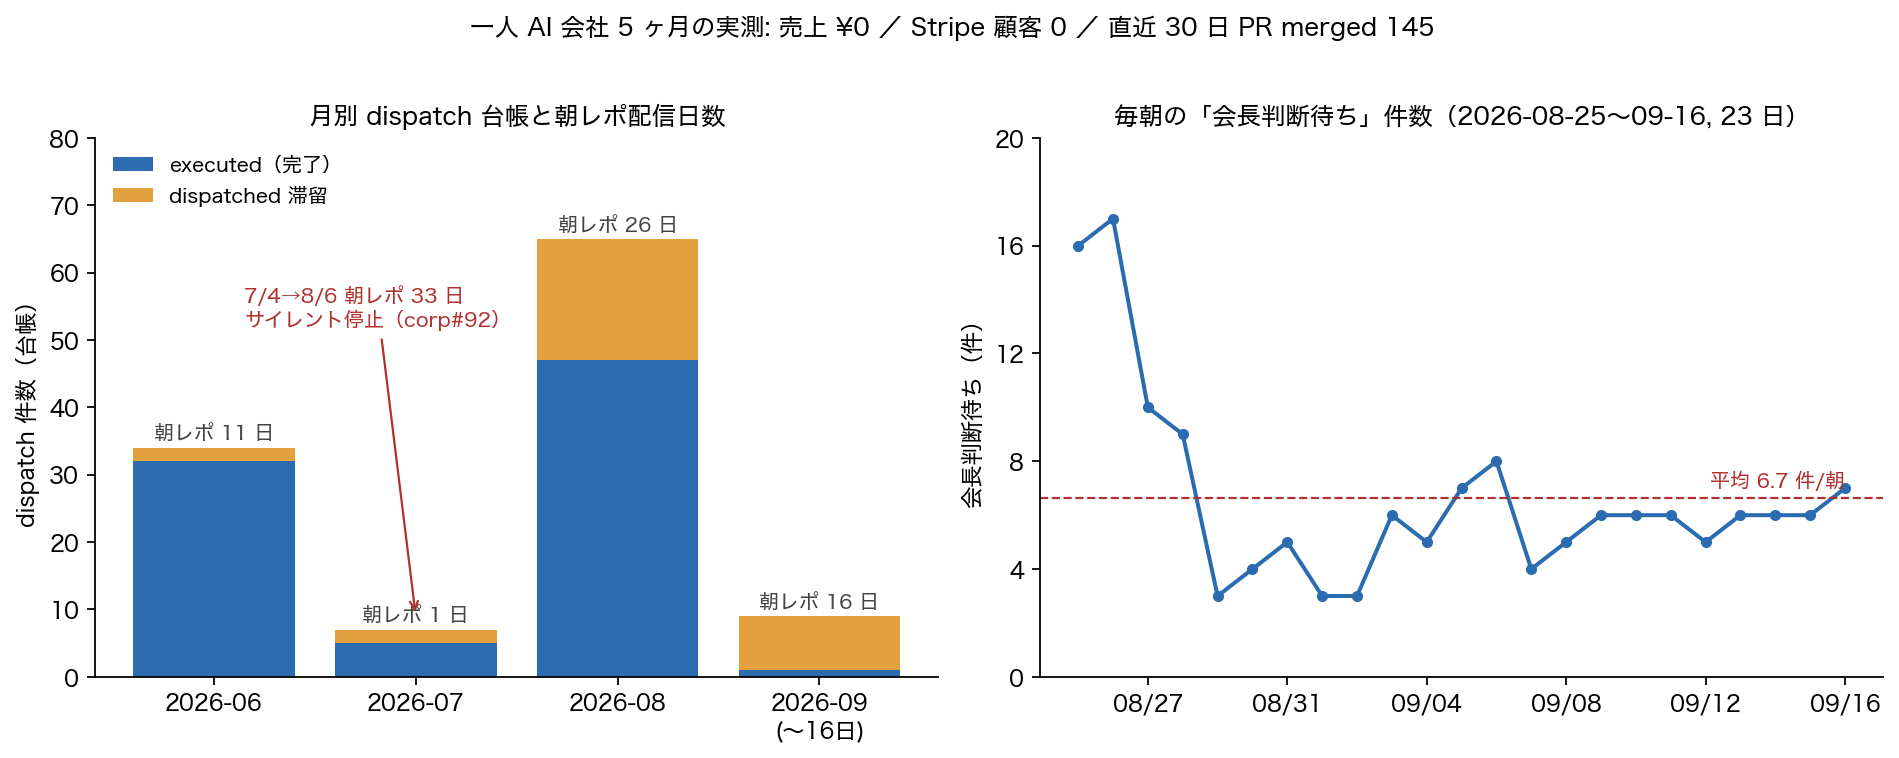
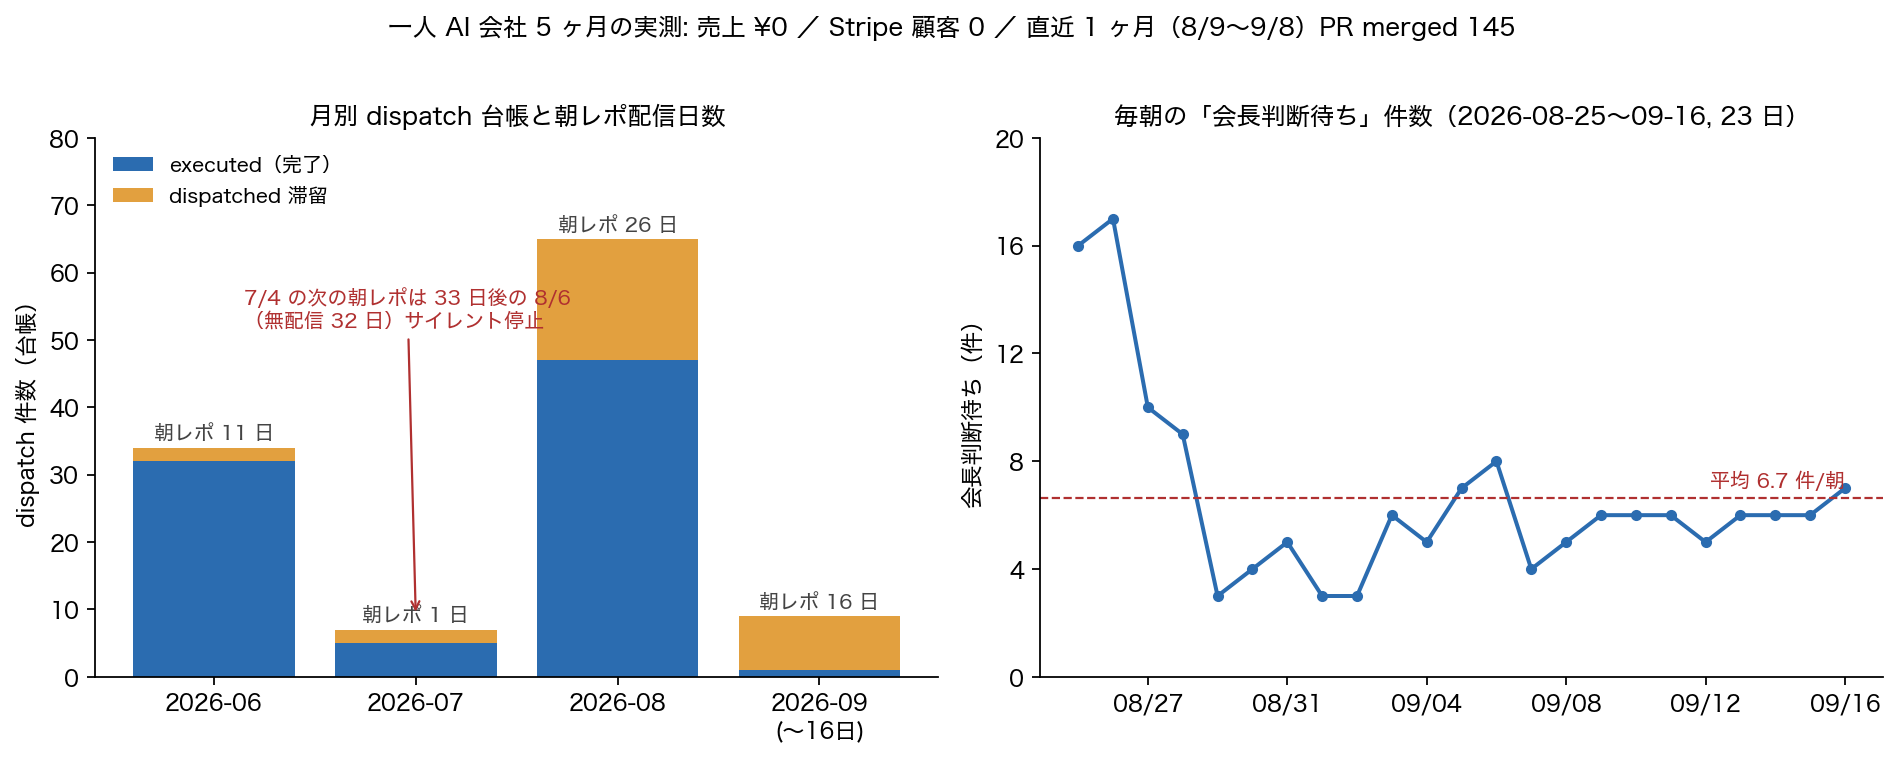
fix: PR #18 レビュー対応（verify-sources の入力検証と eval 除去、出典非掲載の例外をルール化）
- scripts/verify-sources.sh: --only の値なし・未知 id を exit 2 に、cwd/path の eval を許可した環境変数の文字列置換に置換、記事と yaml の出典 id 不整合を FAIL（exit 1）に昇格、citations_in_article: false の例外（突合を INFO 表示）を追加、信頼モデルをヘッダに明記
- tests/test_verify_sources.sh: 無限ループ・未知 id・コマンド置換の副作用なし・突合 FAIL・例外宣言の回帰テストを追加
- .claude/commands/zenn-article.md / .claude/rules/domain-expert.md: 出典行非掲載の例外（会長判断・yaml 宣言）、AC-2 を H2〜H4 各節の印に、AC-3/4 を突合 FAIL 基準に、AC-9 を全図のループ確認に、cwd/path の許可変数と信頼モデルを追記
- sources/ai-company-zero-revenue-autopsy.yaml: citations_in_article: false を宣言、S06（月別朝レポ配信日数）を追加、S24 を corp commit 46f244e 時点の registry.yaml に固定、集計期間を 31 日間・朝レポ停止を 33 日後（無配信 32 日）に訂正
- articles: 直近30日 を 直近1ヶ月 に、97% を製品本体以外のリポジトリに限定、朝レポ停止を 33日後 の間隔表現に
- scripts/figures/ai-company-zero-revenue-autopsy-02.py と図 2: 注記と suptitle を同じ定義に更新し再生成

Refs #18, #17

Changed region(s): [[0.2175, 0.0, 0.8078, 0.0607], [0.1243, 0.3641, 0.2796, 0.6069]]

diff --git a/scripts/figures/ai-company-zero-revenue-autopsy-02.py b/scripts/figures/ai-company-zero-revenue-autopsy-02.py
@@ -26,7 +26,7 @@ OUT = pathlib.Path("images/ai-company-zero-revenue-autopsy/02-five-months-trend.
 MONTHS = ["2026-06", "2026-07", "2026-08", "2026-09\n(〜16日)"]
 EXECUTED = [32, 5, 47, 1]
 STUCK = [2, 2, 18, 8]
-REPORTS = [11, 1, 26, 16]  # 朝レポ配信日数（corp reports/*.md、2026-06-06〜09-16）
+REPORTS = [11, 1, 26, 16]  # 朝レポ配信日数 (S06: corp reports/*.md の月別件数、2026-06-06〜09-16、合計 54 = S04)
 
 # --- 右: 会長判断待ち件数（corp reports/2026-08-25.md〜2026-09-16.md の「⏭ N 件が会長の番」）---
 PENDING = {
@@ -54,7 +54,7 @@ def main() -> None:
     ax1.set_title("月別 dispatch 台帳と朝レポ配信日数", fontsize=11)
     ax1.legend(loc="upper left", fontsize=9, frameon=False)
     ax1.annotate(
-        "7/4→8/6 朝レポ 33 日\nサイレント停止（corp#92）",
+        "7/4 の次の朝レポは 33 日後の 8/6\n（無配信 32 日）サイレント停止",
         xy=(1, 9), xytext=(0.15, 52), fontsize=9, color="#b03030", ha="left",
         arrowprops=dict(arrowstyle="->", color="#b03030"),
     )
@@ -77,7 +77,7 @@ def main() -> None:
         ax2.spines[s].set_visible(False)
 
     fig.suptitle(
-        "一人 AI 会社 5 ヶ月の実測: 売上 ¥0 ／ Stripe 顧客 0 ／ 直近 30 日 PR merged 145",
+        "一人 AI 会社 5 ヶ月の実測: 売上 ¥0 ／ Stripe 顧客 0 ／ 直近 1 ヶ月（8/9〜9/8）PR merged 145",
         fontsize=11, y=1.02,
     )
     fig.tight_layout()

diff --git a/.claude/rules/domain-expert.md b/.claude/rules/domain-expert.md
@@ -21,6 +21,6 @@
 
 - 実ホスト名・実ユーザー名・メール・Tailnet IP・`/Users/` パスが本文とスクショに無いか
 - 「初心者向け」「ジュニアエンジニア向け」など読者を見下ろす表現が無いか
-- 数値段落に `出典:` があり、`verify-sources.sh` が FAIL 0 か
+- 数値段落に `出典:` があり、`verify-sources.sh` が FAIL 0 か（会長判断で出典行を非掲載にした記事は、yaml に `citations_in_article: false` と理由があるか）
 - `<!-- 会長: -->` 型の空欄を会長に丸投げしていないか
 - `published: false` のまま PR を出しているか（公開は会長の操作）
